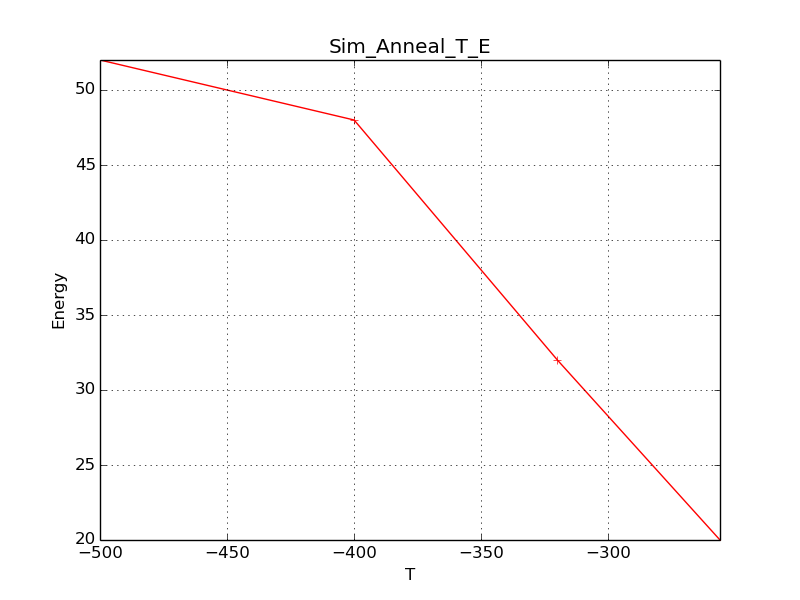
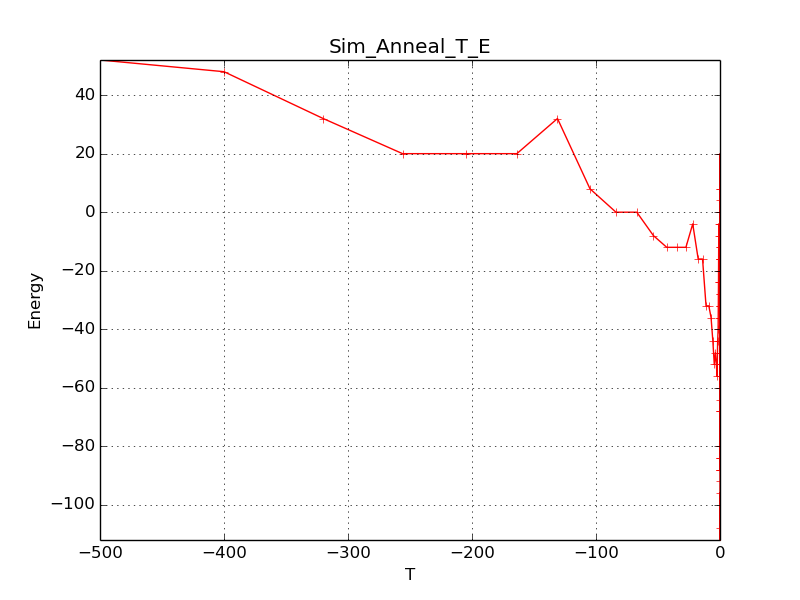
Added plot of hammings in function of E and T.

diff --git a/data.py b/data.py
@@ -125,6 +125,7 @@ class Instance(object):
         old_cost = self.get_cost(sol)
         scores = [old_cost, ]
         temperatures = [-T, ]
+        hammings = [hamming_distance(sol, self.config), ]
         print 'Current best: ', old_cost
         while T > 1:
             for i in xrange(n_iter):
@@ -139,9 +140,14 @@ class Instance(object):
                 T = c * T
                 scores.append(old_cost)
                 temperatures.append(-T)
+                hammings.append(hamming_distance(sol), self.config)
                 plotLines([[temperatures, scores], ],
-                          title='Sim_Anneal_T_E', xlabel='T', ylabel='Energy')
-        return sol
+                          title='Sim_Anneal_T_E', xlabel='-T', ylabel='Energy')
+                plotLines([[temperatures, hammings], ],
+                          title='Sim_Anneal_T_Hamming', xlabel='-T', ylabel='Hamming')
+                plotLines([[scores, hammings], ],
+                          title='Sim_Anneal_E_Hamming', xlabel='Energy', ylabel='Hamming')
+        return (sol, old_cost)
 
     def run_GA(self):
         """

diff --git a/main.py b/main.py
@@ -44,5 +44,5 @@ if __name__ == '__main__':
     print 'Cost of config:', data.get_cost(data.config)
     print 'Timing: ', data.timing
     sa = data.run_SA()
-    print 'Simulated Annealing: ', sa
+    print 'Simulated Annealing: ', sa[1]
     debug()
